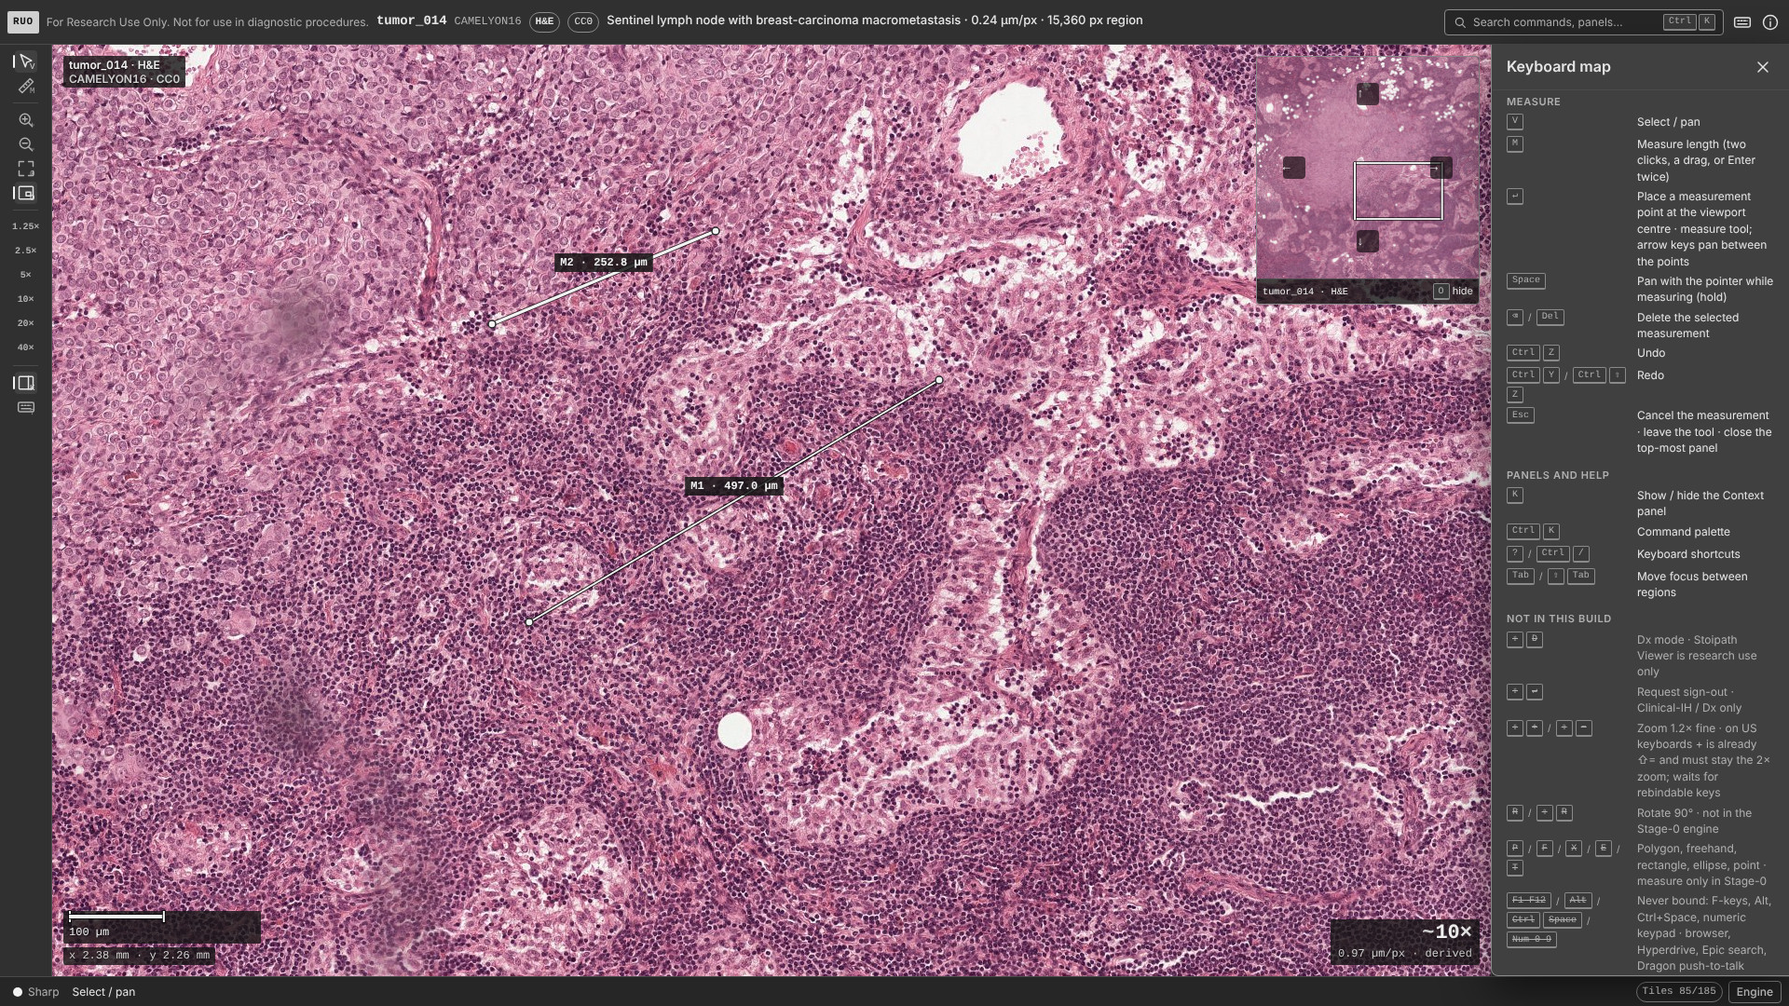
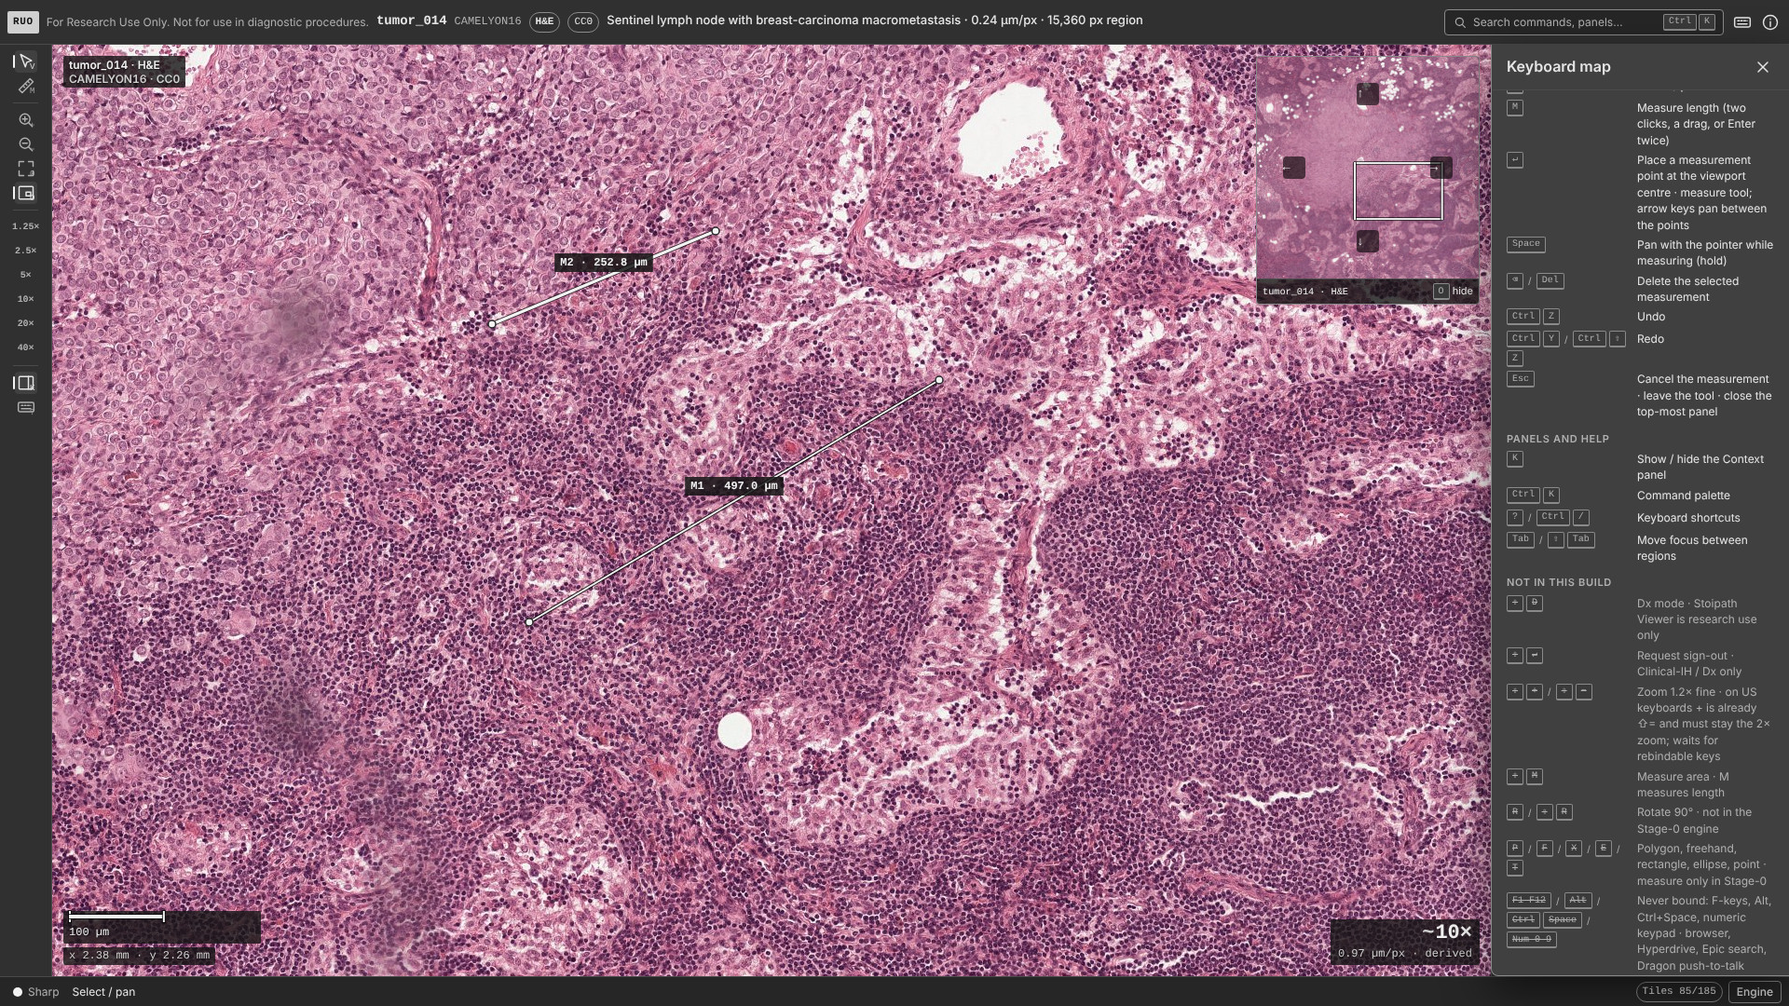
wsi-viewer/stage0: RUO shell after two review rounds
Fixed from the engine and UX/accessibility reviews (21 issues) and two verification
rounds: sharpness state machine per handoff 5.5 (Sharpening on every view change,
slow link only below 8 Mbps or a BDP-late request, never Sharp over a lost context),
touch pinch while measuring, HUD items no longer swallow pointer input, the shell no
longer passes a context-loss layer hint to the measurement page, restore notice
clears, Measurements list keeps keyboard focus, scripted-path status no longer
written mid-gesture, keymap generated from the registry. Final verification:
run.mjs 11/11 gestures, 0 blank frames, check-metrics 20 ok; shell-check 171 ok;
layout-check passes at four viewports; axe WCAG 2.2 AA 0 violations in 28 runs.
Open: focus can be hidden under the keymap/About/palette at >= 1600 px with the
dock open (WCAG 2.4.11), redo gives no notice, two SHELL.md wording mismatches -
carried into Phase A Wave 0.

Claude-Session: https://claude.ai/code/session_019v5aPQsYPLYZztfeNMnqkX

Changed region(s): [[0.8438, 0.0917, 1.0, 0.7944], [0.8438, 0.7028, 0.875, 0.7333], [0.8438, 0.0917, 0.875, 0.1222]]

diff --git a/wsi-viewer/stage0/client/src/shell/main.ts b/wsi-viewer/stage0/client/src/shell/main.ts
@@ -159,7 +159,28 @@ const engSummary = $('engSummary');
 const engDevice = $('engDevice');
 class ShellUi implements ViewerUi {
   handlers: ViewerButtonHandlers | null = null;
+  /**
+   * The engine issues statuses from inside its frame, `scripted path running n/N` every OVERLAY_REFRESH_FRAMES frames
+   * while the path moves the camera. The Engine status row and the strip notice are at-rest chrome (SHELL.md "Frame
+   * budget"), so a status waits here and the frame hook applies it on the next settled frame (the same frame when the
+   * view is at rest). Context loss and restore are applied at once (they go to the assertive region too), and so is
+   * every status before the first frame (loading).
+   */
+  private pending: string | null = null;
   setStatus(text: string): void {
+    if (viewer === null || text.startsWith('WebGL context')) {
+      this.pending = null; // a newer status: an older pending one must not overwrite it later
+      this.apply(text);
+    } else this.pending = text;
+  }
+  /** Frame hook, settled frames only. */
+  flush(): void {
+    if (this.pending === null) return;
+    const t = this.pending;
+    this.pending = null;
+    this.apply(t);
+  }
+  private apply(text: string): void {
     engStatus.set(text === '' ? '—' : text);
     const cap = text.charAt(0).toUpperCase() + text.slice(1);
     if (text.startsWith('loading') || text.startsWith('starting')) notices.engine('Opening the slide…');
@@ -424,6 +445,15 @@ const commands: Command[] = [
     keys: [['⇧', '+'], ['⇧', '−']],
     notInBuild: true,
     keymapOnly: true,
+  },
+  {
+    id: 'tool:area',
+    group: 'Not in this build',
+    label: 'Measure area',
+    meta: 'M measures length',
+    keys: [['⇧', 'M']],
+    notInBuild: true,
+    run: () => refuse('Area measurement is not part of this Stage-0 build; M measures length'),
   },
   { id: 'rotate', group: 'Not in this build', label: 'Rotate 90°', meta: 'not in the Stage-0 engine', keys: [['R'], ['⇧', 'R']], notInBuild: true, run: () => refuse('Rotation is not part of the Stage-0 engine') },
   { id: 'tool:polygon', group: 'Not in this build', label: 'Polygon, freehand, rectangle, ellipse, point', meta: 'measure only in Stage-0', keys: [['P'], ['F'], ['X'], ['E'], ['T']], notInBuild: true, run: notInBuild('Polygon and freehand drawing') },
@@ -710,7 +740,7 @@ window.addEventListener('keydown', (e) => {
       run('tool:measure');
       break;
     case 'M':
-      refuse('Area measurement is not part of this Stage-0 build; M measures length');
+      run('tool:area');
       break;
     case 'r':
     case 'R':
@@ -878,10 +908,26 @@ async function start(): Promise<void> {
 }
 
 // ------------------------------------------------------------------ measurements list (Context → Measurements)
+/**
+ * Focus a row's button after a re-render (WCAG 2.4.3): the row with `id`, else the row now at `index` (the one that
+ * slid into a deleted row's place, or the new last row), else the Measurements tab when the list is empty. The list is
+ * re-rendered with replaceChildren(), so a button held from before the change is detached and cannot take focus.
+ */
+function focusMeasurement(id: string, act: string, index: number): void {
+  const list = $('measList');
+  const row = list.querySelector<HTMLElement>(`[data-id="${id}"]`) ?? list.children[Math.min(index, list.children.length - 1)] ?? null;
+  (row?.querySelector<HTMLElement>(`button[data-act="${act}"]`) ?? $('tab-meas')).focus();
+}
+
 function renderMeasurements(): void {
   const m = measure;
   if (m === null) return;
   const list = $('measList');
+  // Keep a keyboard user's place across the re-render (select, delete, undo / redo with focus in the list).
+  const a = document.activeElement;
+  const btn = a instanceof HTMLElement && list.contains(a) ? a.closest<HTMLElement>('button[data-act]') : null;
+  const focusedRow = btn?.closest<HTMLElement>('[data-id]') ?? null;
+  const restore = btn != null && focusedRow !== null ? { id: focusedRow.dataset['id'] ?? '', act: btn.dataset['act'] ?? 'fly', index: Array.prototype.indexOf.call(list.children, focusedRow) as number } : null;
   list.replaceChildren();
   $('measCount').textContent = String(m.items.length);
   $('measEmpty').hidden = m.items.length > 0;
@@ -899,17 +945,19 @@ function renderMeasurements(): void {
     if (sel) row.setAttribute('aria-current', 'true');
     list.append(row);
   }
+  if (restore !== null) focusMeasurement(restore.id, restore.act, restore.index);
 }
 $('measList').addEventListener('click', (e) => {
   const btn = e.target instanceof Element ? e.target.closest<HTMLElement>('button[data-act]') : null;
   const row = btn?.closest<HTMLElement>('[data-id]');
   if (btn == null || row == null || measure === null || viewer === null) return;
   const mid = Number(row.dataset['id']);
+  const index = Array.prototype.indexOf.call(row.parentElement?.children ?? [], row) as number;
+  // The change re-renders the list (row and btn are detached after it). renderMeasurements() keeps focus when the
+  // button had it; the explicit focus below covers browsers that do not focus a clicked button (Safari, Firefox on macOS).
   if (btn.dataset['act'] === 'del') {
-    const next = row.nextElementSibling ?? row.previousElementSibling;
     measure.remove(mid);
-    const target = next instanceof HTMLElement ? next.querySelector<HTMLElement>('button[data-act="del"]') : null;
-    (target ?? $('tab-meas')).focus();
+    focusMeasurement(String(mid), 'del', index); // the neighbour that took its place, else the previous row, else the tab
     return;
   }
   const it = measure.items.find((x) => x.id === mid);
@@ -920,7 +968,7 @@ $('measList').addEventListener('click', (e) => {
   const lz = Math.min(s.maxLogZoom, Math.max(s.minLogZoom, Math.log2((0.6 * Math.min(s.viewW, s.viewH)) / span)));
   viewer.commands.flyTo((it.ax + it.bx) / 2, (it.ay + it.by) / 2, lz, 'nav', reduced());
   notices.transient(`Flew to M${it.id} · ${formatLengthUm(it.um)}`);
-  (row.querySelector<HTMLElement>('button[data-act="fly"]') ?? btn).focus();
+  focusMeasurement(String(mid), 'fly', index);
 });
 
 // ------------------------------------------------------------------ per-frame hook (inside the engine's rAF loop)
@@ -1000,6 +1048,7 @@ function onFrame(s: FrameSnapshot): void {
     renderSharp();
   notices.tick(s.now, s.settled);
   if (!s.settled) return;
+  ui.flush(); // an engine status issued while the view moved (the scripted path's progress) is written now, at rest
 
   // ---- at rest only: settle-time writes (aria, pressed states, chips, Engine section), throttled to 4 Hz
   if (s.now - lastSlow >= 250) {

diff --git a/wsi-viewer/stage0/client/SHELL.md b/wsi-viewer/stage0/client/SHELL.md
@@ -83,7 +83,7 @@ Soft stays Soft until Sharp or a view change (no flapping). `Offline — cached 
 
 ## Keymap (shell)
 
-Generated from the command registry (`src/shell/main.ts`), so the palette, the keymap dialog and the key handler cannot drift. Principles §4.5 map A + the Stage-0 subset of map B:
+The command registry (`commands` in `src/shell/main.ts`) drives the palette and the keymap dialog, so those two cannot drift from each other. The window key handler is a hand-written `switch` that maps each key to a registry id by hand (`run(id)`), except for the registry's keymap-only rows (pan, Esc, Space, Enter in the measure tool), which it implements itself; keeping its key list in step with the registry is a review item, not a guarantee (the third review found `⇧M` bound outside the registry; it is now the registry row `tool:area`). Letters are matched case-insensitively, so Shift + a letter runs the letter's command, unless the registry gives the Shift chord its own row (`⇧D`, `⇧M`); `⇧Z` is unbound. Principles §4.5 map A + the Stage-0 subset of map B:
 
 | Keys | Command |
 |---|---|
@@ -104,7 +104,7 @@ Generated from the command registry (`src/shell/main.ts`), so the palette, the k
 | `?` / Ctrl/⌘ `/` | keyboard map |
 | Esc | close the palette or dialog (focus returns to where it was: the slide when opened from it) → else cancel the open measurement → else leave the measure tool → else close the drawer / sheet |
 | Arrow keys | pan, except inside toolbars, tab lists, list boxes, dialogs, the dock and its panels, and scrollable text regions (there they move focus or scroll) |
-| Not in this build (struck through) | `⇧D` Dx mode (refused with the RUO string), `⇧↵` sign-out, `⇧+` / `⇧−` zoom 1.2× fine (on US keyboards `+` is already `⇧=` and must stay the 2× zoom; waits for rebindable presets), `R`/`⇧R` rotate (no rotation in the Stage-0 engine), `P F X E T` drawing tools, F-keys, Alt, Ctrl+Space, numeric keypad |
+| Not in this build (struck through) | `⇧D` Dx mode (refused with the RUO string), `⇧↵` sign-out, `⇧M` measure area (refused: `M` measures length), `⇧+` / `⇧−` zoom 1.2× fine (on US keyboards `+` is already `⇧=` and must stay the 2× zoom; waits for rebindable presets), `R`/`⇧R` rotate (no rotation in the Stage-0 engine), `P F X E T` drawing tools, F-keys, Alt, Ctrl+Space, numeric keypad |
 
 **Conflicts with the engine keys, resolved.** The measurement page binds O (debug overlay), R (reset view) and P (scripted path). The shell starts the engine with `keys: 'none'` and binds its own map: `O` is the navigator (principles §4.5), reset view is `0`/Home (Fit), the scripted path is the Engine section's button (or the palette's "Run scripted path"); `R` is struck through because the design reserves it for rotation, and `P` because it is the polygon tool. Ctrl/⌘ `+`/`−` stay browser zoom (the engine follows DPR changes). Arrow keys inside the toolbar, tabs and lists move focus instead of panning.
 
@@ -113,7 +113,7 @@ Generated from the command registry (`src/shell/main.ts`), so the palette, the k
 - **One rAF loop**, the engine's. The shell subscribes to `viewer.onFrame(snapshot)`; the snapshot is one object mutated in place.
 - **Per frame** only: HUD text through write-on-change slots (`TextSlot`; tabular figures, reserved widths), two scale-bar transforms, four navigator-edge transforms (only when the camera moved), and the measurement overlay canvas (only when the camera moved or the set changed). The sharpness classes change only on a state transition (gesture start, settle).
 - **No layout reads in the frame hook**: canvas size and origin come from the engine's resize handling, the thumbnail size from a ResizeObserver; media queries are cached on `change`.
-- **At rest only** (4 Hz while settled): aria-labels (canvas, readout, sharpness indicator), preset `aria-pressed`, the tiles and network chips, the strip notice, the Engine section; the polite live region at settle (≤ 1 per 500 ms).
+- **At rest only** (4 Hz while settled): aria-labels (canvas, readout, sharpness indicator), preset `aria-pressed`, the tiles and network chips, the strip notice, the Engine section; the polite live region at settle (≤ 1 per 500 ms). Engine statuses (`ViewerUi.setStatus`, e.g. the scripted path's `running n/N` every `OVERLAY_REFRESH_FRAMES` = 5 frames while it moves the camera) are held and written on the next settled frame (the same frame when the view is at rest); only context loss / restore are written at once, with the assertive region.
 - `.app.is-gesturing` is set at gesture start and cleared at settle (base.css zeroes chrome transitions while it is set).
 
 ## Deviations from the design and the plan
@@ -144,7 +144,8 @@ Generated from the command registry (`src/shell/main.ts`), so the palette, the k
   - click-click, keyboard and (phone) touch tap-tap measurements within 1 %, the result spoken in the polite region, the HUD tool line not a hit target; a two-finger pinch with the measure tool zooms and measures nothing;
   - a per-frame sampler: never `Sharp` while `deficitCells > 0`, `blankCells > 0` or the context is lost; under reduced motion a cold preset jump and Evict pass through `Sharpening…` and never Soft; WEBGL_lose_context: not Sharp while lost, the restore notice clears, the measurement page's layer hint is not written; no inertia under reduced motion;
   - focus: Enter on the rail's Measure moves focus to the slide, `?` / Ctrl+K from the slide return to it on Esc, nothing focusable under the open keymap or palette, the navigator after the strip in Tab order, Shift+Tab from the rail reaches the slide in ≤ 2; the typed-zoom error keeps the field open, `aria-invalid`, assertive; the network chip silent at rest;
-  - frame cost during a 1 s drag and a wheel burst: zero layout-reading DOM calls, zero redundant DOM writes (attribute / character-data old values), while moving only text and `style.transform` in the HUD / navigator rectangle plus the gesture and indicator classes, CDP LayoutCount ≤ frames + 2 and RecalcStyleCount ≤ 2 × frames + 4, beside the same input on index.html;
+  - frame cost during a 1 s drag and a wheel burst: zero layout-reading DOM calls, zero redundant DOM writes (attribute / character-data old values), while moving only text and `style.transform` in the HUD / navigator rectangle plus the gesture and indicator classes, CDP LayoutCount ≤ frames + 2 and RecalcStyleCount ≤ 2 × frames + 4, beside the same input on index.html; the same rules over a whole scripted path with the Engine section open (desktop), ending with the path's final status in the Engine section;
+  - the Measurements list (desktop): Enter on Fly to keeps focus on that button, Enter on Delete moves it to the next row's Delete, Ctrl+Z in the list keeps it there, and the arrow keys in the list do not pan;
   - the phone's bottom bar at 360 and 320 px; no console or page errors.
   `window.__shell` exposes read-only views (`hud()`, `nav()`, `sharpness()` with the machine's last input, `measurements()`, `tool()`, `notice()`, `polite()`) for it.
 - design-system `layout-check.mjs` (T1, Z1, S1, A1, A2, A3) and axe-core WCAG 2.2 AA, served over http (see Results).
@@ -198,7 +199,7 @@ After the review fixes (`viewer.ts`: snapshot fields `lost`, `received`, `oldest
 
 The single 133 ms frame is a SwiftShader stall of the kind seen in the A/B runs above.
 
-**3. `node harness/shell-check.mjs`**: 162 `ok`, 0 `FAIL`, "all shell checks passed" (final build; 86 before the review, when it covered less).
+**3. `node harness/shell-check.mjs`**: 171 `ok`, 0 `FAIL`, "all shell checks passed" after the third review's fixes (162 after the second review, 86 before it, when it covered less; the 9 new checks are the Measurements-list focus and the scripted-path frame cost, "Review fixes (third review)" below).
 - **HUD.** At fit and at L0–L3, at 1440 × 900 DSF 1, 1280 × 800 DSF 2 and 390 × 844, the magnification, µm/px line, scale-bar label, drawn bar length (± 1 px) and position all match values recomputed from `state()` and mpp with render DPR = min(2, DSF). Examples at 390 × 844: fit `~1.04×` / `9.57 µm/px` / `1 mm` = 104.4 px; L0 `~41×` / `0.24 µm/px` / `20 µm` = 82.3 px. At DPR 2, 40× shows no "beyond the resolution" notice; past level 0 it reads `Beyond the scan’s resolution — 0.21 µm/px shown, scan is 0.24 µm/px`.
 - **Sharpness.** The per-frame sampler saw 0 frames claiming Sharp over a deficit, a blank cell or a lost context, in every context (497–1066 frames each). Under reduced motion: Evict, Sharp → Sharpening… → Sharp; preset 6 to a cold area (an instant jump, logZoom −2.00 → −0.04), Sharp → Sharpening… → Sharp; no Soft on loopback. Context loss: `sharpening` with the loss notice; after the restore (86 layers) the notice clears, the magnified notice returns, and `stage0.layersHint` is not written.
 - **Measurement.** Click-click 294.29 µm vs 294.29 µm expected, with the camera unmoved; keyboard within 1 % of 10 % of the viewport; phone touch tap-tap 196.65 µm vs 196.65 µm; a pinch with the measure tool zooms logZoom −3.000 → −0.930 and adds no measurement. The result is spoken (`Measured M1 · 294.3 µm`).
@@ -251,6 +252,24 @@ Second round, after the review: the palette placeholder and the top-bar search l
 | 19 | `⇧−` ran the 2× zoom-out, contradicting the design map (low) | `_` unbound; `⇧+ / ⇧−` fine zoom listed under "Not in this build" with the US-layout reason | keymap screenshot |
 | 20 | Rail cut off on a 1133 × 744 coarse iPad mini (low) | the rail's keymap button is dropped at ≤ 760 px tall under coarse; roving tabindex skips unrendered buttons | 1133 × 744 c: 664 / 664 px, nothing cut |
 | 21 | `design/index.html` gained a "Shell on the real slide" link (low) | **not changed here**: it is not this builder's edit. The builder's activity log ends at 16:50:08 with no `design/index.html` entry. The file's mtime (16:52:10) matches the deploy worktree's `design/` update (16:52:15), and the link's title says "published site only". For the orchestrator to confirm or revert | — |
+
+## Review fixes (third review, 2026-11-01)
+
+| # | Issue (severity) | Fix | Evidence after |
+|---|---|---|---|
+| 1 | Keyboard focus dropped to `<body>` after Fly to, Delete (another row left) or Ctrl+Z / Ctrl+Y with focus in the Measurements list: the change re-renders the list with `replaceChildren()` and the handler then focused a button of the detached old row; with focus on `<body>` the arrow keys panned the slide (WCAG 2.4.3) (medium) | `renderMeasurements()` remembers the focused button's row id, action and index before the re-render and restores focus afterwards: the same row's button, else the row now at that index (the one that slid into a deleted row's place, or the new last row), else the Measurements tab. The click handler re-queries the fresh list the same way (`focusMeasurement`), which also covers browsers that do not focus a clicked button (Safari) | probe at 1920 × 1080 and 1440 × 900, three keyboard measurements: Enter on Fly to → `button[fly] M1`, ArrowLeft there moves the camera 0.00 px; click on Fly to M2 → `button[fly] M2`; Enter on Delete M1 → `button[del] M2`; Ctrl+Z → M1 restored, focus stays on M2's Delete; Ctrl+Y → same; click on Delete of the last row → previous row's Delete; Ctrl+Z on a Fly to keeps it; deleting the last measurement → `#tab-meas` (22 / 22 ok). A programmatic click while the slide has focus (Safari-like) → the re-rendered button. Ctrl+Z from the slide leaves focus on the slide. shell-check section 4b (4 checks) |
+| 2 | During the scripted path the engine's progress status (`scripted path running n/N — hands off`, every 5 frames) was written to the Engine status row and the strip notice while `.app.is-gesturing` was set, contrary to "Frame budget" (low) | `ShellUi.setStatus` holds a status and the frame hook writes it on the next settled frame (`ui.flush()`, the same frame at rest); context loss / restore and everything before the first frame are written at once (a pending older status is dropped so it cannot overwrite them) | the reviewer's MutationObserver probe at 1920 × 1080 `?engine=1`: 0 non-HUD mutations while gesturing over one path (was 38: 19 `engStatus`, 19 `stripNotice`); the status still advances at each rest (57 writes, `running 2/37` … `37/37`, then `scripted path done (run 1)`). shell-check 6b over a whole path with the Engine section open at 1440 × 900: 661 frames, 0 layout reads, 0 redundant writes, 1274 of 1792 mutations while moving all permitted, LayoutCount 222 / RecalcStyleCount 351 |
+| 3 | `⇧M` was bound in the key handler (an area-measurement refusal) but not in the registry, so the keymap dialog and this file did not list it; this file claimed the key handler was generated from the registry (low) | registry row `tool:area` (Not in this build, `⇧M`, "Measure area · M measures length", same refusal), and the switch's `case 'M'` runs it; the "Keymap (shell)" paragraph now says what the code guarantees (the registry drives the palette and the keymap dialog; the key handler maps keys to registry ids by hand) | keymap 33 rows (was 32) with the struck-through `⇧M` row; palette "Measure area · not in this build"; `⇧M` on the slide says the refusal and leaves the tool on Select. `shell-1920x1080-keymap.jpg` re-taken |
+
+Re-run after these fixes (final build):
+- `npm run build`: tsc clean, built. Only shell files changed (`src/shell/main.ts`, `harness/shell-check.mjs`, this file); engine sources, `constants.ts`, scheduling, LOD, upload budgets and the draw path are untouched.
+- `node harness/run.mjs --label shell-reviewfix3` (`harness/results/2026-11-01T18-50-01-412Z-shell-reviewfix3.json`): 749 frames, 11 / 11 gestures completed, 0 timed out, frame ms p50 / p95 / max 16.7 / 66.6 / 66.7, zoom-in TTS p50 / max 263 / 313 ms, sharp-after-settle p95 0, 0 blank frames after base, 249 tiles received, 0 errors, 160 texture layers (viewport). `node harness/check-metrics.mjs` on it: 20 `ok`, 0 `FAIL`, "all metric checks passed" (as before).
+- `node harness/shell-check.mjs`: 171 `ok`, 0 `FAIL`.
+- `layout-check.mjs` (the http copy) at 1920 × 1080, 1440 × 900, 1024 × 1366 coarse and 390 × 844 coarse, at rest and with Engine, palette, keymap and About open: 20 / 20 pass (0 intrusions, 0 undersized targets, label opacity 0.70).
+- axe-core 4.10.3 WCAG 2.2 AA at the same four viewports in six states (rest, palette, keymap, Engine, About, measure tool with a measurement): 0 violations in 24 runs; the incomplete items are the same two kinds as above.
+- Screenshots: only `shell-1920x1080-keymap.jpg` shows something these fixes change (the `⇧M` row in "Not in this build"); it was re-taken with the same sequence and reviewed. The focus fix has no screenshot in the set; a scratch capture after keyboard Fly to shows the focus ring on M1's Fly to and the strip notice `Flew to M1 · 497.0 µm`.
+
+Not changed: Shift + a drawing-tool letter (`⇧P`, `⇧T` …) still gives the drawing-tool refusal, although the design reserves `⇧T` for the count tool; it refuses either way and the registry's keycaps list the unshifted letters.
 
 ## Known limitations
 
